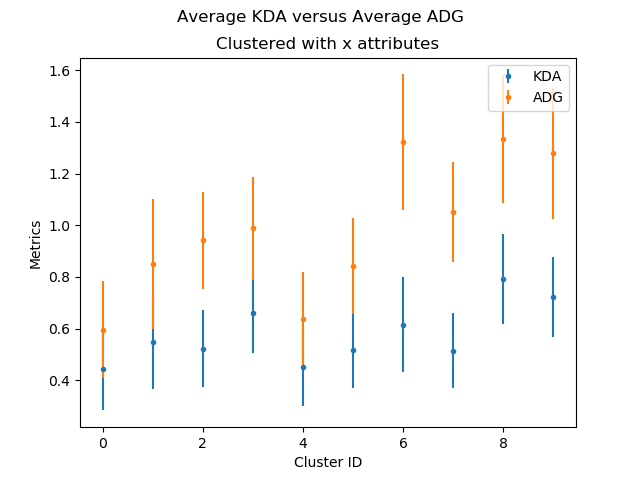
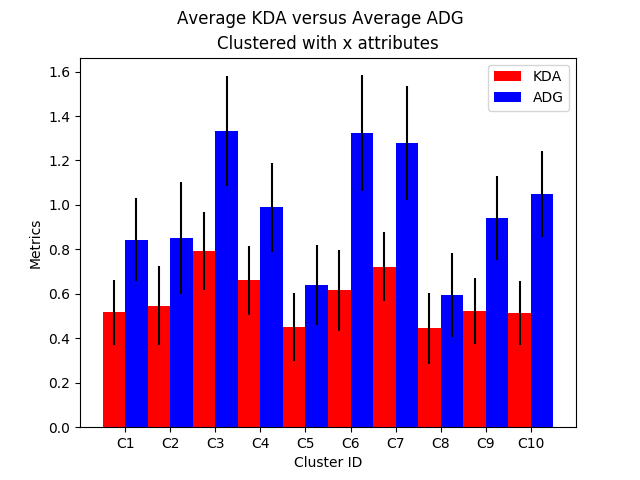
Adjustments over calculating and plotting metrics comparison

diff --git a/scripts/metrics_comparison.py b/scripts/metrics_comparison.py
@@ -8,7 +8,6 @@ from sklearn.cluster import KMeans
 
 # =============================================================================
 # GABRIEL:
-# - Renomeei o arquivo. Não existe "comparation". O certo é comparison :-)
 # - Note que incluí resultados para a clusterização segundo também cada conjunto de atributos selecionados
 # - Veja os plots salvos na pasta nova que criei
 # - Sendo assim, botei métodos diferentes para se obter os labels dos clusters, variando o conjunto de 
@@ -22,10 +21,10 @@ from sklearn.cluster import KMeans
 #       a database continua contendo todos atributos, para fins de cálculos das médias das métricas
 #
 # - Para Fazer:
-#       - Plot de distribuição dentro dos clusters (intra cluster), como vc mesmo sugeriu
-#       - Não precisa fazer o inter cluster, o plot de linha que coloquei já substitui isso
-#       - Gerar a matriz de correlações entre as métricas para cada um dos 5 casos descritos acima
-#       - Quaisquer dúvidas, entre em contato
+#       1. Plot de distribuição dentro dos clusters (intra cluster), como vc mesmo sugeriu
+#               (Não precisa fazer o inter cluster, os plots de barra que coloquei já substituem isso)
+#       2. Gerar a matriz de correlações entre as métricas para cada um dos 5 casos descritos acima
+# - Quaisquer dúvidas, entre em contato
 # =============================================================================
 
 def compute_stats(data, metric, n_clusters=10, normed_mean=False):
@@ -40,7 +39,8 @@ def compute_stats(data, metric, n_clusters=10, normed_mean=False):
         
     if normed_mean:
         avg_metric = (avg_metric - avg_metric.min()) / (avg_metric.max() - avg_metric.min())
-        return avg_metric
+        std_metric = (std_metric - avg_metric.min()) / (avg_metric.max() - avg_metric.min())
+        return avg_metric+0.5, std_metric
     
     return avg_metric, std_metric, var_coef_metric
 
@@ -117,10 +117,11 @@ def main():
     
     if args.normed_mean:
         averages_normed = {}
-        averages_normed['KDA'] = compute_stats(data, 'kda', normed_mean=True)
-        averages_normed['ADG'] = compute_stats(data, 'adg', normed_mean=True)
-        averages_normed['G'] = compute_stats(data, 'g', normed_mean=True)
-        averages_normed['X'] = compute_stats(data, 'x', normed_mean=True)
+        stds_normed = {}
+        averages_normed['KDA'], stds_normed['KDA'] = compute_stats(data, 'kda', normed_mean=True)
+        averages_normed['ADG'], stds_normed['ADG'] = compute_stats(data, 'adg', normed_mean=True)
+        averages_normed['G'], stds_normed['G'] = compute_stats(data, 'g', normed_mean=True)
+        averages_normed['X'], stds_normed['X'] = compute_stats(data, 'x', normed_mean=True)
     
     clusters = np.array(range(args.n_clusters))
     
@@ -130,16 +131,17 @@ def main():
         if metric != 'KDA':
             metrics = ('KDA', metric)
             
-            plt.figure()
-            plt.errorbar(clusters, averages[metrics[0]], yerr=stds[metrics[0]],
-                         linestyle='None', marker='.', label=metrics[0])
-            plt.errorbar(clusters, averages[metrics[1]], yerr=stds[metrics[1]],
-                         linestyle='None', marker='.', label=metrics[1])
+            fig, ax = plt.subplots()
+            ax.bar(clusters, averages[metrics[0]], width=0.5, color='r', yerr=stds[metrics[0]], label=metrics[0])
+            ax.bar(clusters+0.5, averages[metrics[1]], width=0.5, color='b', yerr=stds[metrics[1]], label=metrics[1])
             plt.suptitle('Average %s versus Average %s' % metrics)
             plt.title(subset)
             plt.legend()
             plt.xlabel('Cluster ID')
             plt.ylabel('Metrics')
+            plt.xticks(clusters + 0.25)
+            xlabels = tuple(['C%d' % (i+1) for i in clusters])
+            ax.set_xticklabels(xlabels)
             file_name = '%savg_%s_%s_%s.png' % (output_path, metrics[0], metrics[1], args.projection)
             plt.savefig(file_name)
             print(file_name, 'saved')
@@ -147,35 +149,19 @@ def main():
                 plt.show()
             plt.clf()
             
-            plt.figure()
-            plt.plot(clusters, averages[metrics[0]], label=metrics[0])
-            plt.plot(clusters, averages[metrics[1]], label=metrics[1])
-            plt.plot(clusters, coeffs[metrics[0]], label='%s - coeff. variation' % metrics[0])
-            plt.plot(clusters, coeffs[metrics[1]], label='%s - coeff. variation' % metrics[1])
-            plt.suptitle('Average %s versus Average %s' % metrics)
-            plt.title(subset)
-            plt.legend()
-            plt.xlabel('Cluster ID')
-            plt.ylabel('Metrics')
-            file_name = '%savg_%s_%s_%s_line.png' % (output_path, metrics[0], metrics[1], args.projection)
-            plt.savefig(file_name)
-            print(file_name, 'saved')
-            if args.show_plots:
-                plt.show()
-            plt.clf()
-            
             if args.normed_mean:
-                plt.figure()
-                plt.plot(clusters, averages_normed[metrics[0]], label=metrics[0])
-                plt.plot(clusters, averages_normed[metrics[1]], label=metrics[1])
-                plt.plot(clusters, coeffs[metrics[0]], label='%s - coeff. variation' % metrics[0])
-                plt.plot(clusters, coeffs[metrics[1]], label='%s - coeff. variation' % metrics[1])
+                fig, ax = plt.subplots()
+                ax.bar(clusters, averages_normed[metrics[0]], width=0.5, color='r', yerr=stds_normed[metrics[0]], label=metrics[0])
+                ax.bar(clusters+0.5, averages_normed[metrics[1]], width=0.5, color='b', yerr=stds_normed[metrics[1]], label=metrics[1])
                 plt.suptitle('Average %s versus Average %s (normed)' % metrics)
                 plt.title(subset)
                 plt.legend()
                 plt.xlabel('Cluster ID')
                 plt.ylabel('Metrics')
-                file_name = '%savg_%s_%s_%s_line_normed.png' % (output_path, metrics[0], metrics[1], args.projection)
+                plt.xticks(clusters + 0.25)
+                xlabels = tuple(['C%d' % (i+1) for i in clusters])
+                ax.set_xticklabels(xlabels)
+                file_name = '%savg_%s_%s_%s_normed.png' % (output_path, metrics[0], metrics[1], args.projection)
                 plt.savefig(file_name)
                 print(file_name, 'saved')
                 if args.show_plots:
